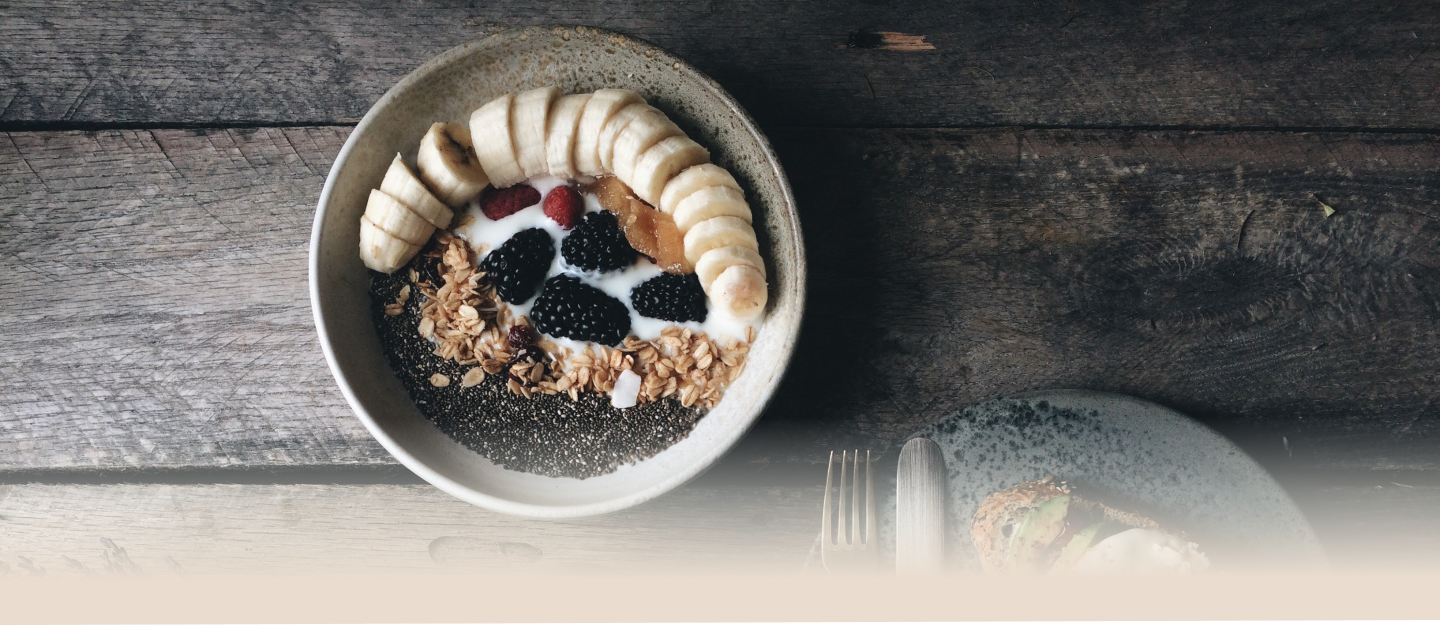
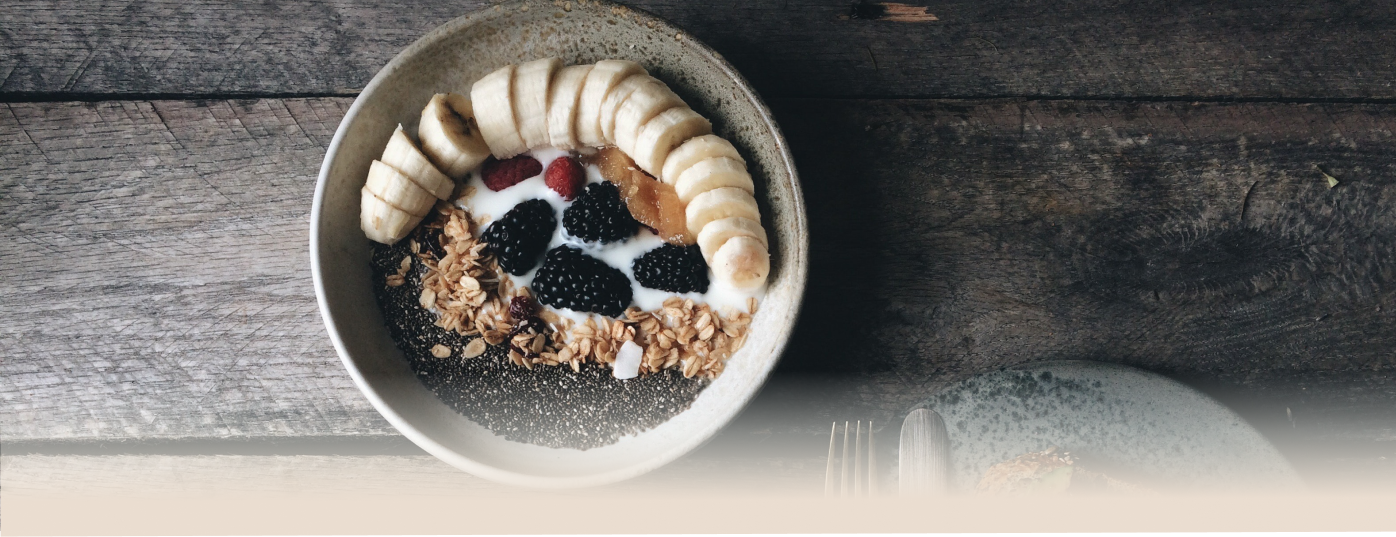
new pics

diff --git a/Grainjar-Website/Product-Dessert.html b/Grainjar-Website/Product-Dessert.html
@@ -49,7 +49,7 @@
 
   </header>
 
-  <body style = "background-color:#FEFEFE;">
+  <body style = "background-color:#EADDD0;">
 
     <!-- Banner at the top of the About page -->
     <section id = "title-banner" class="product-banner">
